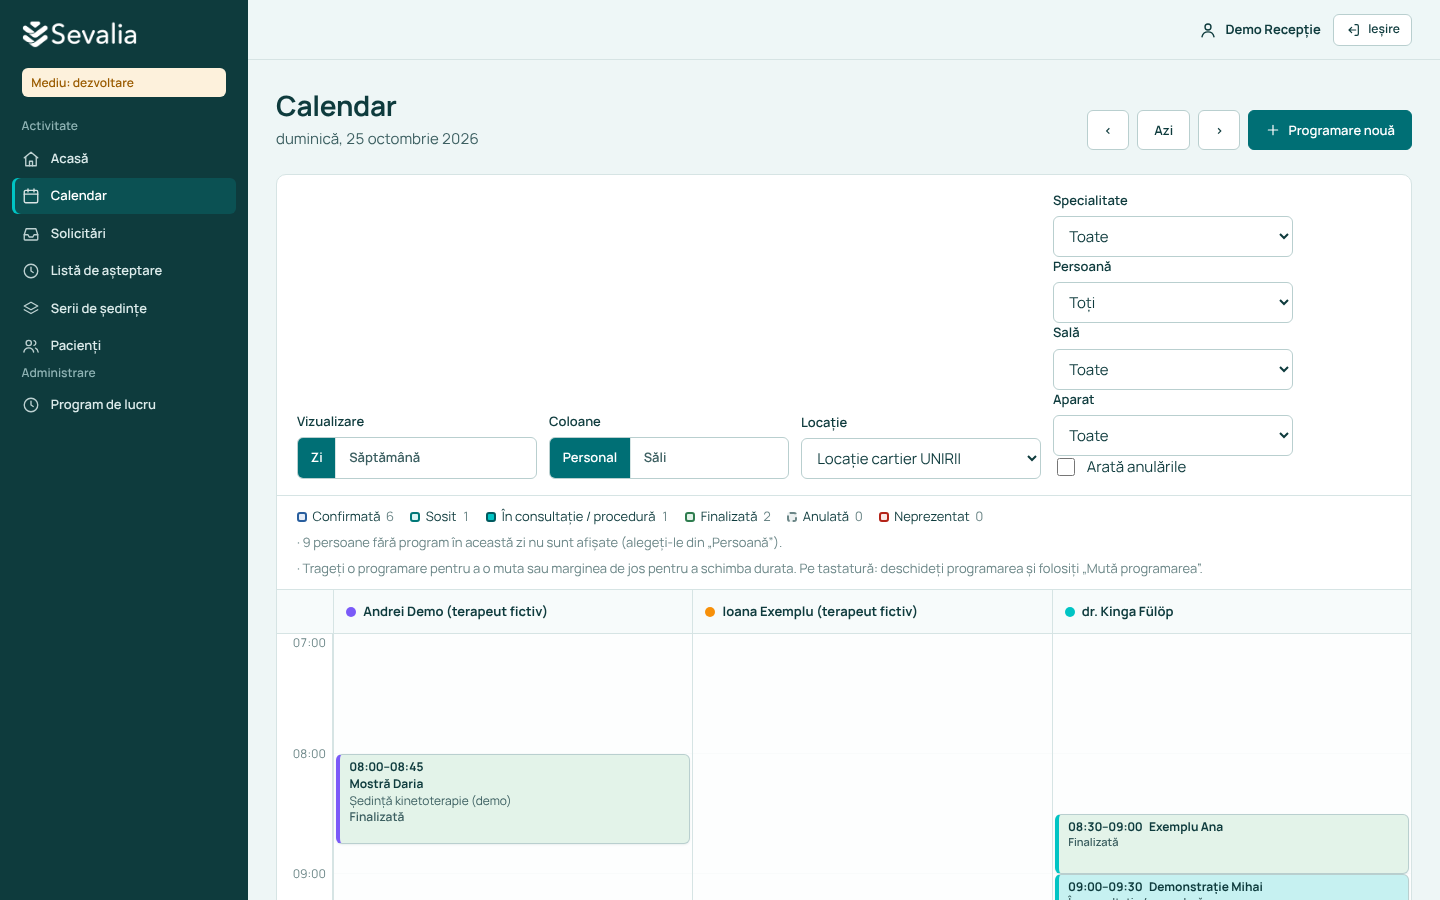
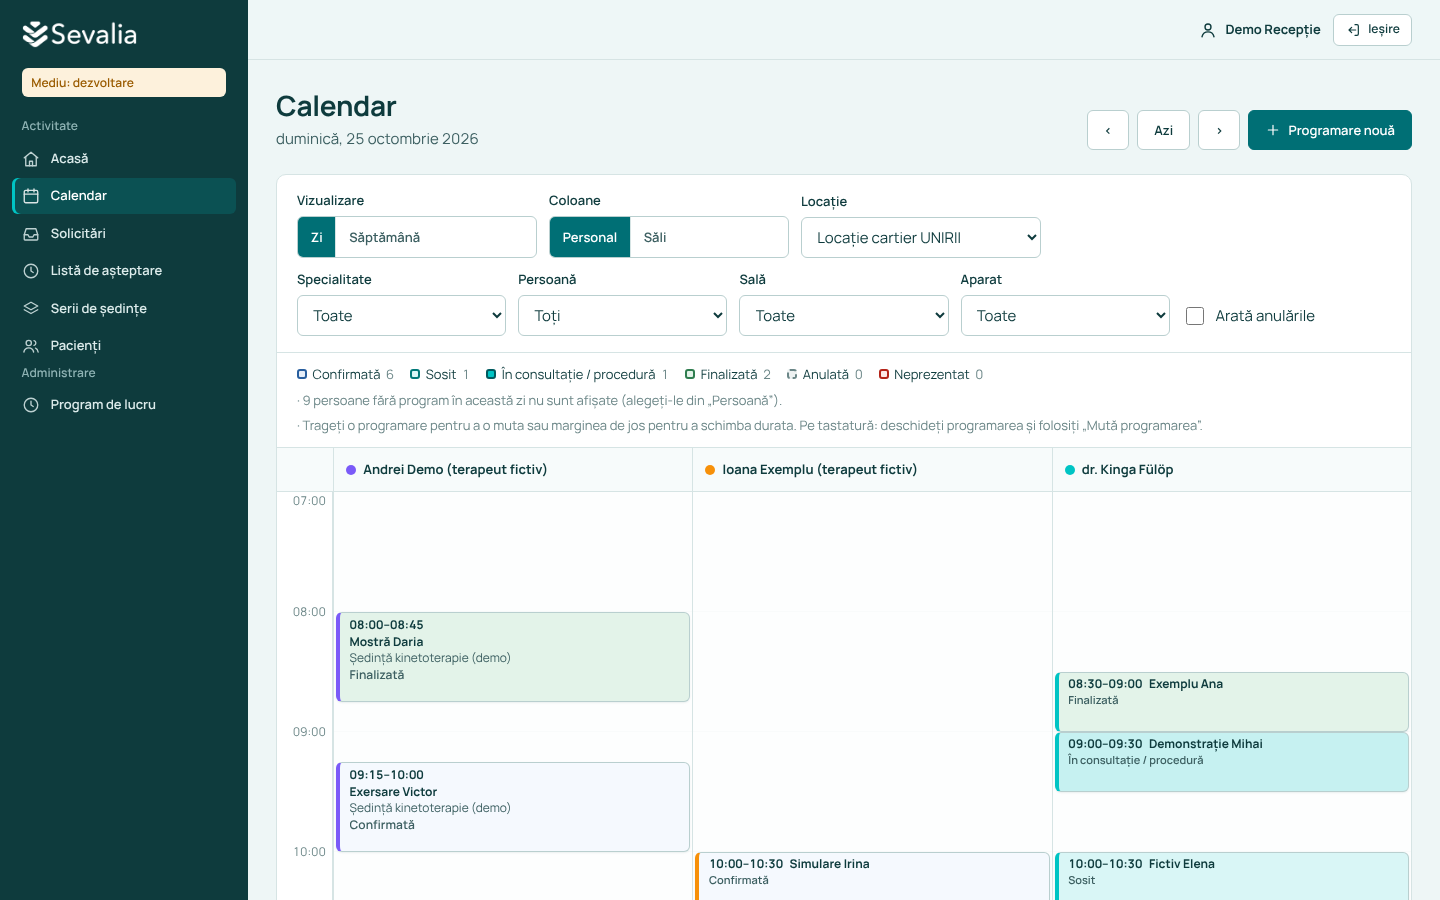
Calendar: filtrele pe rânduri clare, săptămâna încape pe ecran; capturi actualizate
Claude-Session: https://claude.ai/code/session_015rMMVJj15NAQSyTEhyfFdb

diff --git a/resources/css/panou/calendar.css b/resources/css/panou/calendar.css
@@ -1,11 +1,18 @@
 /* Calendarul recepției: grilă de timp cu coloane pe personal / săli / zile. */
 
-.cal-filters .field {
-    max-width: 200px;
+.cal-filters {
+    align-items: flex-end;
+    justify-content: flex-start;
 }
 
+.cal-filters .field {
+    flex: 0 1 220px;
+    max-width: 220px;
+}
+
+/* <details> nu se comportă fiabil cu display: contents; pe desktop e un rând flexibil, mereu deschis. */
 .cal-more {
-    display: contents;
+    flex: 1 1 100%;
 }
 
 .cal-more > summary {
@@ -13,7 +20,15 @@
 }
 
 .cal-more__body {
-    display: contents;
+    display: flex;
+    flex-wrap: wrap;
+    gap: 0.75rem;
+    align-items: flex-end;
+}
+
+.cal-more__body .check {
+    min-height: 40px;
+    align-items: center;
 }
 
 .seg {
@@ -93,6 +108,11 @@
 .cal__grid {
     display: grid;
     grid-template-columns: 56px repeat(var(--cols), minmax(170px, 1fr));
+}
+
+/* În vizualizarea pe săptămână cele 7 zile încap pe un ecran de 1440 px fără derulare orizontală. */
+.cal__grid.cal__grid--saptamana {
+    grid-template-columns: 56px repeat(var(--cols), minmax(118px, 1fr));
     min-width: min-content;
 }
 

diff --git a/app/Modules/Scheduling/Views/calendar.blade.php b/app/Modules/Scheduling/Views/calendar.blade.php
@@ -87,7 +87,7 @@
                  data-can-manage="{{ auth()->user()->can('scheduling.manage') ? '1' : '0' }}"
                  data-csrf="{{ csrf_token() }}">
                 <div class="cal__scroll">
-                    <div class="cal__grid" style="--cols: {{ count($columns) }}">
+                    <div class="cal__grid cal__grid--{{ $view }}" style="--cols: {{ count($columns) }}">
                         <div class="cal__corner"></div>
                         @foreach ($columns as $col)
                             <div class="cal__head {{ $col['isToday'] && $view === 'saptamana' ? 'is-today' : '' }}">
